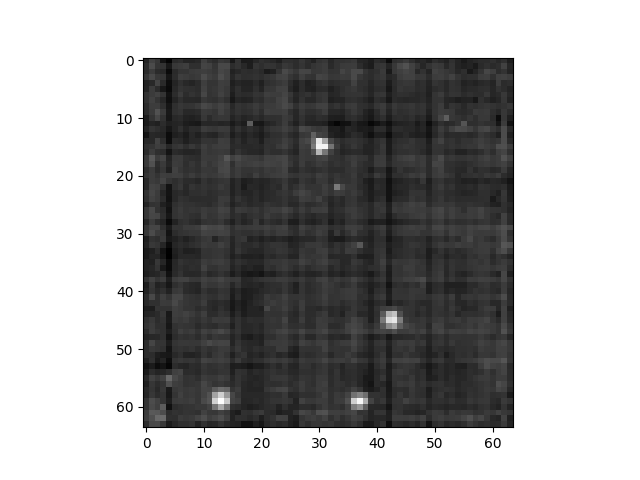
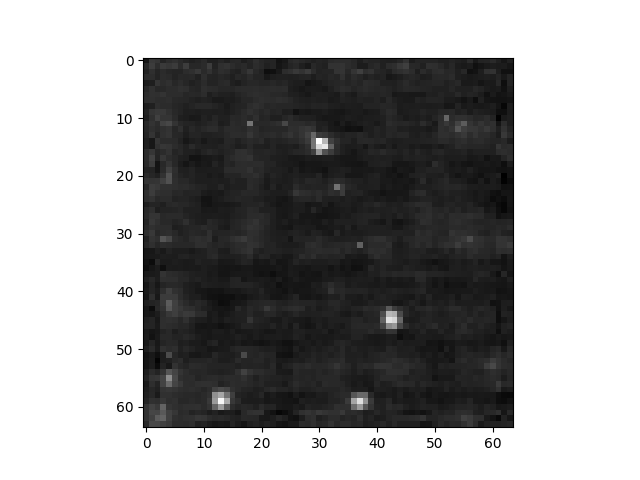
:zap: Local N2S working as in Aydin GUI

diff --git a/local/n2s/n2s_run.py b/local/n2s/n2s_run.py
@@ -5,19 +5,19 @@ Our pipeline is:
     - Variance stabilization
     - Noise2Self-CB: +spatial features +balance training data
 """
-
-import numpy as np
-import time as time
+import time
 import tifffile as tiff
+import numpy as np
 import matplotlib.pyplot as plt
 
-from aydin.it.fgr import ImageTranslatorFGR
 from aydin.restoration.denoise.noise2selffgr import Noise2SelfFGR
-from aydin.it.transforms.range import RangeTransform
-from aydin.it.transforms.padding import PaddingTransform
-from aydin.it.transforms.fixedpattern import FixedPatternTransform
-from aydin.it.transforms.variance_stabilisation import VarianceStabilisationTransform
 from aydin.features.standard_features import StandardFeatureGenerator
+from aydin.it.fgr import ImageTranslatorFGR
+from aydin.it.transforms.fixedpattern import FixedPatternTransform
+from aydin.it.transforms.padding import PaddingTransform
+from aydin.it.transforms.variance_stabilisation import VarianceStabilisationTransform
+from aydin.it.transforms.range import RangeTransform
+from aydin.regression.cb import CBRegressor
 
 
 # Basic Noise2Self using the “Feature Generation & Regression” approach-based restoration
@@ -39,23 +39,87 @@ from aydin.features.standard_features import StandardFeatureGenerator
 noisy_image = tiff.imread("C:/Git/palmdenoiser_data/lowSNR.tif")
 print("Image shape:", noisy_image.shape)
 
-transforms = transforms = [{"class": VarianceStabilisationTransform, "kwargs": {"do_postprocess": True, "mode":"anscomb"}},
-                           {"class": FixedPatternTransform, "kwargs": {"percentile":1.0, "sigma":0.5}}, # maybe not
-                           {"class": RangeTransform, "kwargs": {"do_postprocess": True, "mode":"minmax", "percentile":None, "leave_as_float":False, "clip":True}},
-                           {"class": PaddingTransform, "kwargs": {"pad_width":3, "min_length_to_pad":8, "mode":"reflect"}}]
+# Transforms (dans l’ordre du JSON)
+transforms = [
+    {"class": FixedPatternTransform, "kwargs": {"axes": None, "do_postprocess": False, "percentile": 1.0, "priority": 0.09, "sigma": 0.5}},
+    {"class": PaddingTransform, "kwargs": {"do_postprocess": True, "min_length_to_pad": 8, "mode": "reflect", "pad_width": 3, "priority": 0.9}},
+    {"class": VarianceStabilisationTransform, "kwargs": {"do_postprocess": True, "leave_as_float": True, "mode": "anscomb", "priority": 0.11}},
+    {"class": RangeTransform, "kwargs": {"clip": True, "do_postprocess": True, "force_float_datatype": False, "mode": "minmax", "percentile": None, "priority": 0.2}},
+]
 
+# Instancier Noise2SelfFGR
+n2s = Noise2SelfFGR(
+    variant="cb",
+    it_transforms=transforms,
+    lower_level_args={
+        "feature_generator": {
+            "class": StandardFeatureGenerator,
+            "kwargs": {
+                "dct_max_freq": 0.5,
+                "decimate_large_scale_features": True,
+                "extend_large_scale_features": False,
+                "include_corner_features": False,
+                "include_dct_features": False,
+                "include_fine_features": True,
+                "include_line_features": False,
+                "include_lowpass_features": True,
+                "include_median_features": False,
+                "include_random_conv_features": False,
+                "include_scale_one": False,
+                "include_spatial_features": True,
+                "max_level": 13,
+                "min_level": 0,
+                "num_lowpass_features": 8,
+                "num_sinusoidal_features": 0,
+                "scale_one_width": 3,
+                "spatial_features_coarsening": 2,
+            },
+        },
+        "it": {
+            "class": ImageTranslatorFGR,
+            "kwargs": {
+                "balance_training_data": True,
+                "blind_spots": None,
+                "favour_bright_pixels": 0.0,
+                "max_memory_usage_ratio": 0.9,
+                "max_tiling_overhead": 0.1,
+                "max_voxels_for_training": None,
+                "tile_max_margin": None,
+                "tile_min_margin": 8,
+                "voxel_keep_ratio": 1.0,
+            },
+        },
+        "regressor": {
+            "class": CBRegressor,
+            "kwargs": {
+                "compute_load": 0.95,
+                "gpu": True,
+                "gpu_devices": None,
+                "gpu_use_pinned_ram": None,
+                "learning_rate": None,
+                "loss": "l1",
+                "max_bin": None,
+                "max_num_estimators": None,
+                "min_num_estimators": None,
+                "num_leaves": None,
+                "patience": 32,
+            },
+        },
+    },
+)
+
+# Entraînement
 debut = time.time()
-n2s = Noise2SelfFGR(variant="cb", 
-                    it_transforms=transforms, 
-                    lower_level_args={"feature_generator": {"class": StandardFeatureGenerator, "kwargs": {"include_spatial_features": True}},
-                                      "it": {"class": ImageTranslatorFGR, "kwargs": {"balance_training_data": True}}})
-
 n2s.train(noisy_image)
+
+# Denoising
 denoised_image = n2s.denoise(noisy_image)
-
 end = time.time()
-print(f"Restoration took {(end-debut)/60} minutes")
 
+print(f"Restoration took {(end-debut)/60:.2f} minutes")
+
+# Affichage et sauvegarde
 plt.imshow(denoised_image[400], cmap="gray")
 plt.show()
+
 tiff.imwrite("C:/Git/palm-denoisers/local/n2s/highSNR_denoised_n2s.tif", np.array(denoised_image, dtype="uint16"))
